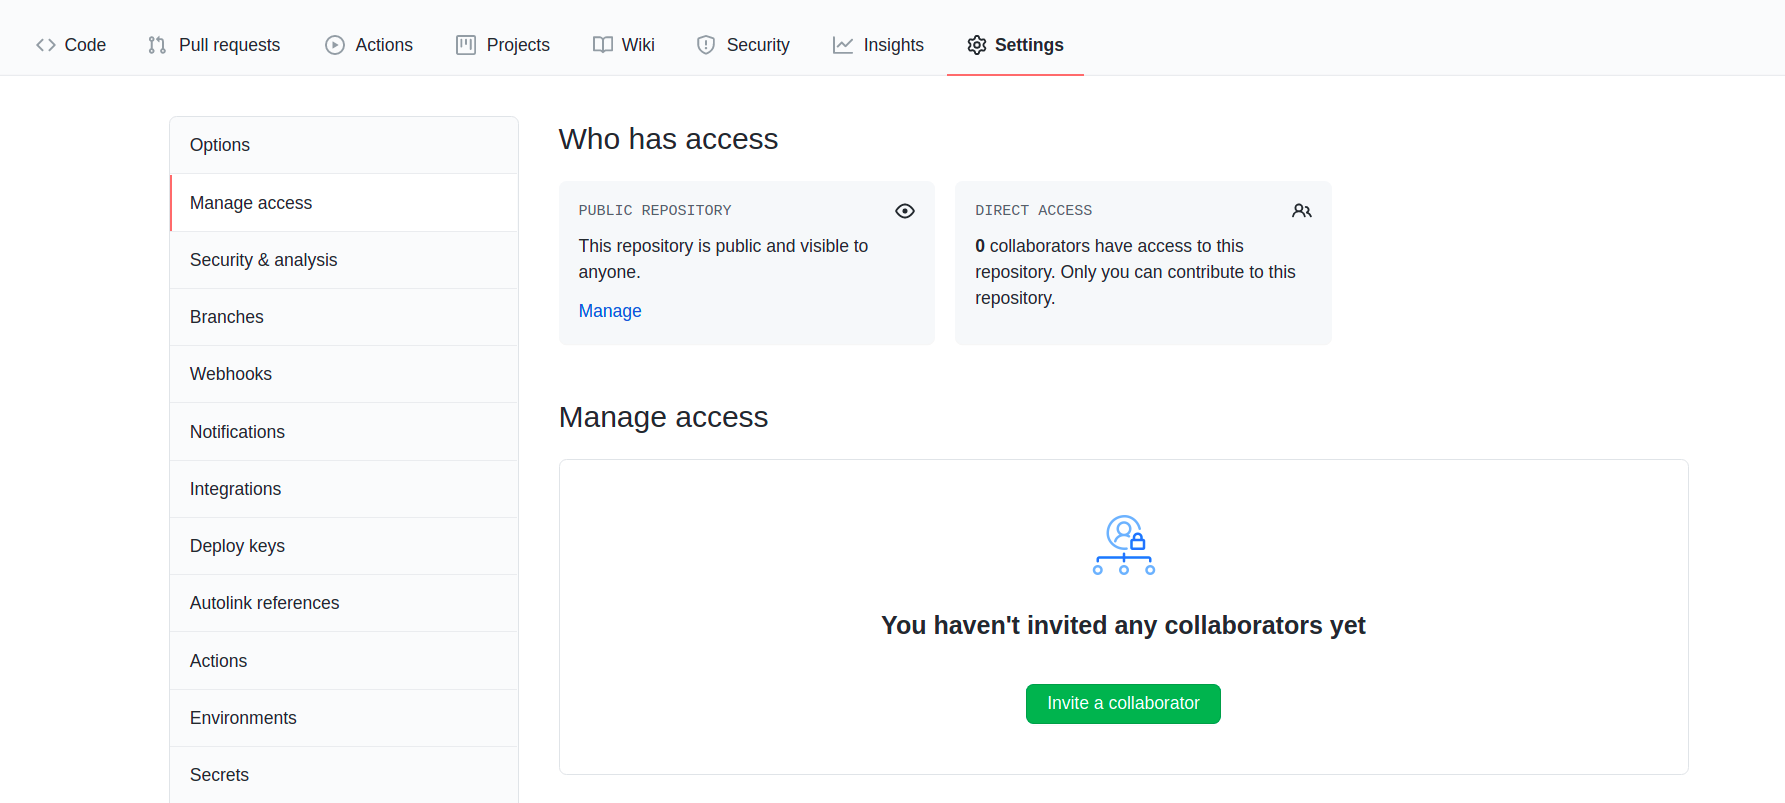
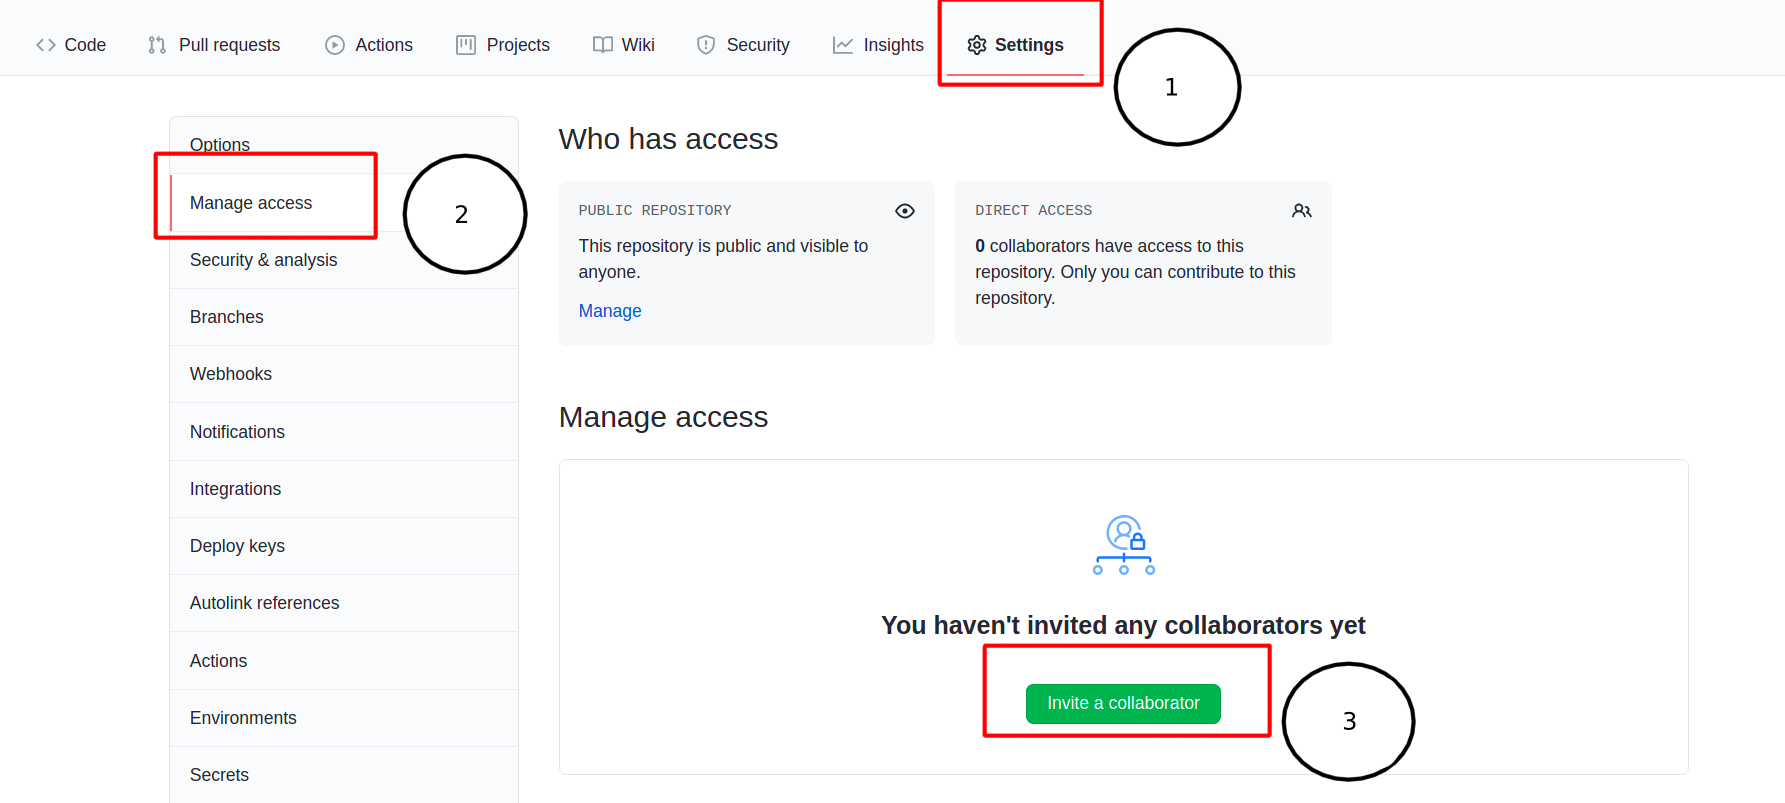
Cleanup images and text

diff --git a/Windows-Install-Guide.md b/Windows-Install-Guide.md
@@ -1,6 +1,6 @@
 # Windows Install Guide
 ## 1. Download the installer from https://git-scm.com/downloads 
-Click the download button and your download should start immediately. If it doesn't you can manually click Windows 64 bit. Keep track of where you saved the installer.  
+Click the download button and your download should start immediately. If it doesn't you can manually click Windows 64 bit as shown below. Keep track of where you saved the installer.  
 ![git download website](assets/downloadscreen.PNG)
 ## 2. Run the installer
 You can accept the default for most of the install. However, it is recommended to pause at the following critical steps to double check the information.
@@ -11,24 +11,37 @@ This step is where you choose your text editor for git bash. It's ok to stick wi
 ![Default branch](assets/defaultbranch.PNG).  
 It is recommended to choose the default branch name to be "main" since this is what Github uses.
 ## 3. Start your git bash
-First create a folder to house your project. Change into this folder. You can then start a git bash by right clicking and selecting "Git Bash Here". This will open a terminal like that shown below. All your commands in this workshop will be executed in the git bash.
+- Create a folder to house your project. Change into this folder
+- Start a git bash by right clicking and selecting "Git Bash Here". This will open a terminal like that shown below. All your commands in this workshop will be executed in the git bash terminal.
 ![Open git bash](assets/opengitbash.png)
 ![Git bash](assets/gitbash.PNG)
 ## 4. Generate ssh keys
 To make our GitHub experience smoother we will generate ssh keys. This allows us to securely communicate with GitHub. If you're interested in how this works you can research public/private key encryption. To generate an ssh key pair type `ssh-keygen`. Accept the defaults.
 ![ssh-keygen](assets/sshkeygen.PNG)
 ## 5. Add our ssh keys to GitHub
-We now need to add the public key to our GitHub account. First we need to copy the public key we just generated. Type `cd ~/.ssh`. This will change directory to the folder we just made the keys in. If we type `ls` it will list the contents of this folder. Type `cat id_rsa.pub` to show the contents of your public key. Copy them.  
-Next navigate to github.com and create an account if needed. To edit your ssh keys click your profile picture in the top right and then go to settings. In the sidebar that opens up choose SSH and GPG keys. And then "New SSH Key". Paste the contents of your public key in the key field. The title field doesn't really matter. Click "Add SSH key". Your ssh keys are now set up.
+We now need to add the public key to our GitHub account. 
+- Type `cd ~/.ssh`. This will change directory to the folder we just made the keys in. If we type `ls` it will list the contents of this folder. 
+- Type `cat id_rsa.pub` to show the contents of your public key. 
+- Copy your public key
+
+Next navigate to github.com and create an account if needed. To edit your ssh keys: 
+- Click your profile picture in the top right
+- Go to settings
+- Choose SSH and GPG keys from the sidebar
+- Click "New SSH Key".
+- Paste the contents of your public key in the key field. The title field doesn't really matter. 
+- Click "Add SSH key".
+
+Your ssh keys are now set up.
 ![Copy key](assets/copysshkey.PNG)  
 ![Settings](assets/githubsettings.PNG)
 ![New key](assets/newsshkey.PNG)
 ## 6. Fork the HYL Repository - only one team member needs to do this!
-To work on the HYL project one member of your team will need to fork the repository. To do so, navigate to https://github.com/Hack-Your-Learning/retreat1-ex1. Click "Fork" in the top right corner. This will create a personal copy of this repository. GitHub should redirect you to your copy when you create it. If it did not you can find your copy by clicking on your profile picture and then "your repositories".
+To work on the HYL project one member of your team will need to fork the repository. To do so, navigate to https://github.com/Hack-Your-Learning/retreat1-ex1. Click "Fork" in the top right corner. This will create a copy of this repository for your team to work on. GitHub should redirect you to your copy when you create it. If it did not you can find your copy by clicking on your profile picture and then "your repositories".
 ![Fork](assets/fork.PNG)
 ![Your Repositories](assets/yourrepositories.png)
 ## 7. Clone the repository
-To work on this project you will need to download the files. This is done by cloning. First copy the ssh link by clicking the green "Code" button, choose ssh and then copy the link. Go back to your git bash and `cd` to your project directory. Now we can clone the project with `git clone <your link>`. If it asks you about adding to known hosts say yes.
+Now that we have our fork on GitHub we need a local copy. We get this copy with the "clone" command. First copy the ssh link by clicking the green "Code" button, choose ssh and then copy the link. Go back to your git bash and `cd` to your project directory. We can clone the project with `git clone <your link>`. If it asks you about adding to known hosts say yes.
 ![SSH Link](assets/clonessh.PNG)
 ![Clone Repo](assets/clonerepo.PNG)
 ## 8. Open in your preferred text editor
@@ -36,5 +49,10 @@ You will now be able to open the files in your favourite text editor. Below you 
 ![Open Folder](assets/openfolder.png)
 ![File System](assets/vscodefilesystem.PNG)
 ## 9. Add collaborators
-If you're working with a team you will want to add collaborators. Click "Settings" then "Manage Access" and "Invite a collaborator". You can add your teammates by their GitHub username or email.
+If you're working with a team you will want to add collaborators. From your repository's page on GitHub. Click
+- Settings
+- Manage Access
+- Invite Collaborator
+
+You can add your collaborators by email or GitHub username. To contribute they should clone the repository as described above. Note that there is no need for your teammates to fork either the HYL repository! They should use the repository that you have already created.
 ![Add Collaborator](assets/addcollaborators.png)
